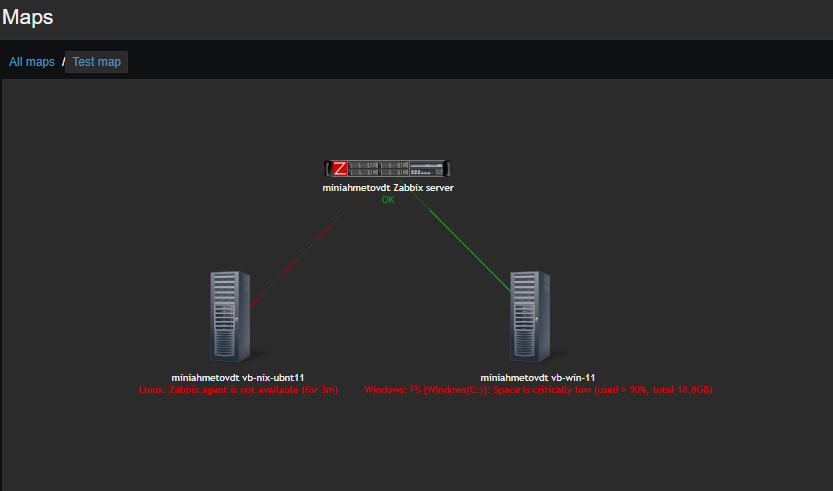
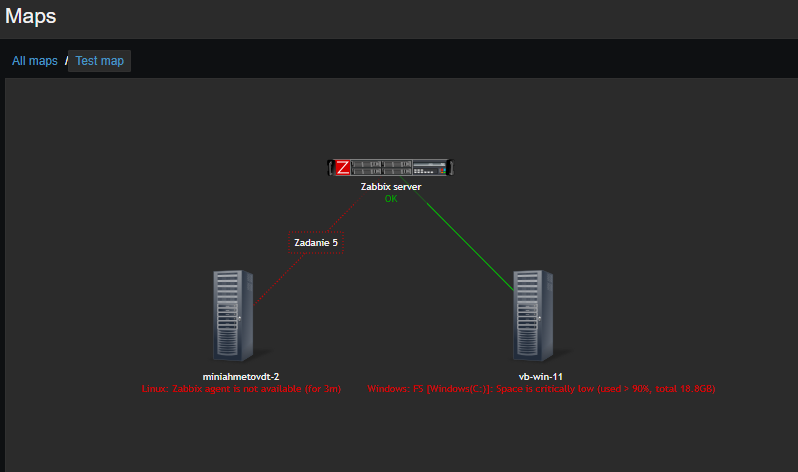
Ex 3, 5

diff --git a/README.md b/README.md
@@ -15,11 +15,11 @@
 Добавьте в Zabbix два хоста и задайте им имена <фамилия и инициалы-1> и <фамилия и инициалы-2>. Например: ivanovii-1 и ivanovii-2.
 ![Zadanie 2. Hosts](image-1.png)
 
-
 Задание 3
 Привяжите созданный шаблон к двум хостам. Также привяжите к обоим хостам шаблон Linux by Zabbix Agent.
-![Задание-3](image-5.png)
-![Сделал клон "Linux by zabbix 2", удалил оттуда задания продублированные из Zadanie 1". Со вторым сервером аналогично.](image-4.png)
+![Latest data](image-4.png)
+![host 1](image-5.png)
+![host 2](image-6.png)
 
 Задание 4
 Создайте свой кастомный дашборд.
@@ -27,7 +27,7 @@
 
 Задание 5* со звёздочкой
 Создайте карту и расположите на ней два своих хоста.
-![Test Map](image-7.png)
+![Zadanie 5](image-7.png)
 
 Задание 6* со звёздочкой
 Создайте UserParameter на bash и прикрепите его к созданному вами ранее шаблону. Он должен вызывать скрипт, который:
